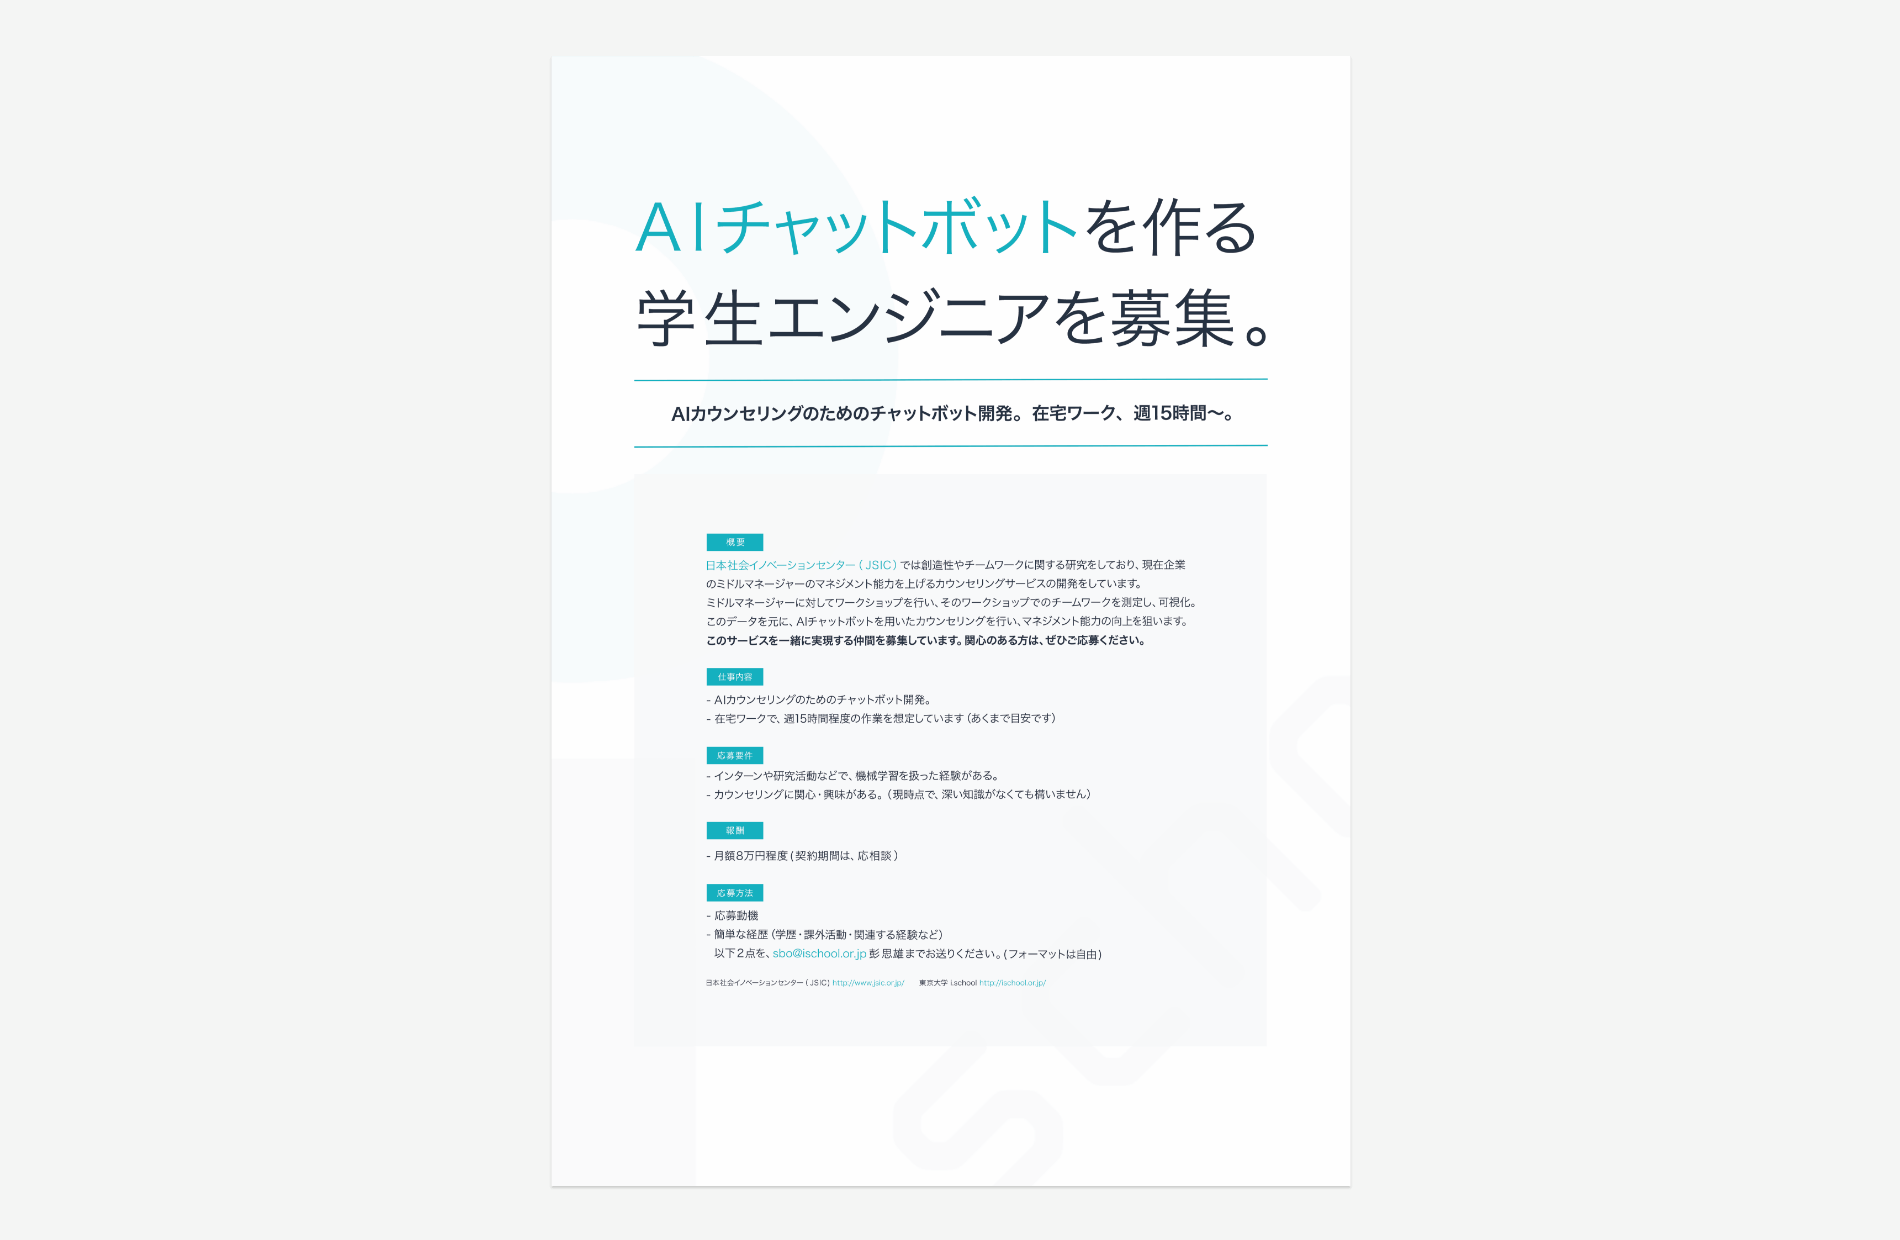
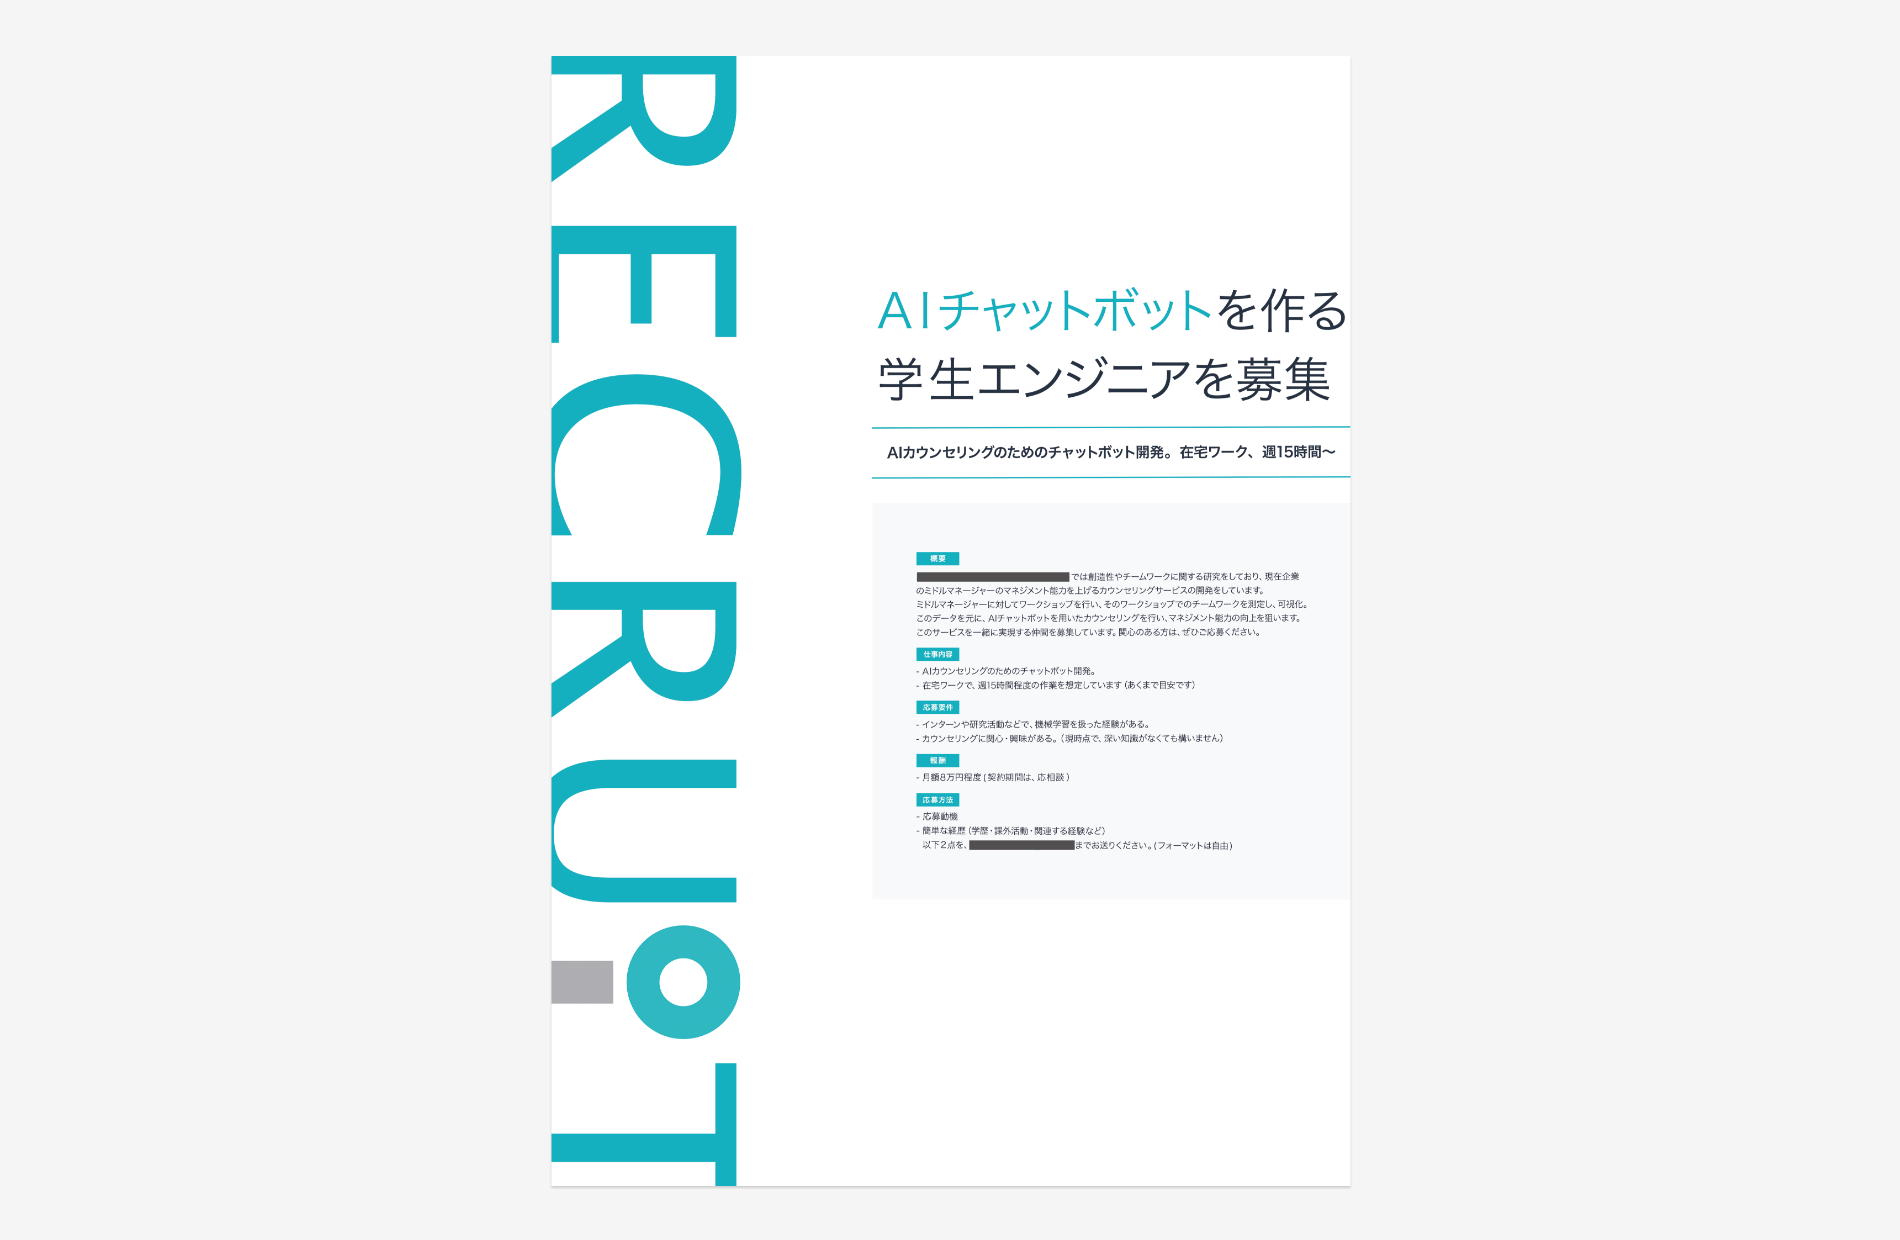
well_done

Changed region(s): [[0.2795, 0.0306, 0.7142, 0.8581], [0.2795, 0.8581, 0.4037, 0.95], [0.2795, 0.3984, 0.3105, 0.429]]

diff --git a/works_5.html b/works_5.html
@@ -77,11 +77,11 @@
     <article>
         <section class="ex">
             <div class="ex1">
-                <h2 class="ex4">GRAPHIC/エンジニア募集ポスター(i school)</h2>
+                <h2 class="ex4">GRAPHIC/エンジニア募集ポスター</h2>
                 <p class="ex3">制作期間        2020.10 / 3時間<br>再制作期間        2020.10 / 1時間 <br>ソフト      Photoshop</p>
             </div>
-                <p class="ex2">案件：SONY×東大生スタートアッププロジェクトの求人ポスター</p>
-                <p class="ex5">18-25歳の学生をターゲットに、シンプルでスタイリッシュなポスターに仕上げました。文字とロゴのみで表現して欲しいご要望に応えるため12パターンほど制作し、4パターンを掲載。i schoolのブランドカラーとフォントを使用し、サイトや過去のポスター等を参考にして、ブランドイメージを崩さないように気をつけました。</p>
+                <p class="ex2">プロジェクト：SONY×東大生スタートアッププロジェクトの求人ポスター</p>
+                <p class="ex5">18-25歳の学生をターゲットに、シンプルでスタイリッシュなポスターに仕上げました。文字とロゴのみで表現して欲しいご要望に応えるため12パターンほど制作し、4パターンを掲載。団体のブランドカラーとフォントを使用し、サイトや過去のポスター等を参考にして、ブランドイメージを崩さないように気をつけました。</p>
         </section>
 
         <section>

diff --git a/works.html b/works.html
@@ -150,7 +150,7 @@
                       <h3 class="work_hover__sp">GRAPHIC/案件:求人ポスター</h3>
                      <!-- sp -->
                     <a href="./works_5.html">
-                        <img src="img/work7.png" alt="i_school" class="a_345px_5">
+                        <img src="img/work4.png" alt="i_school" class="a_345px_5">
                     </a>
                     
                     <a href="./works_5.html">
